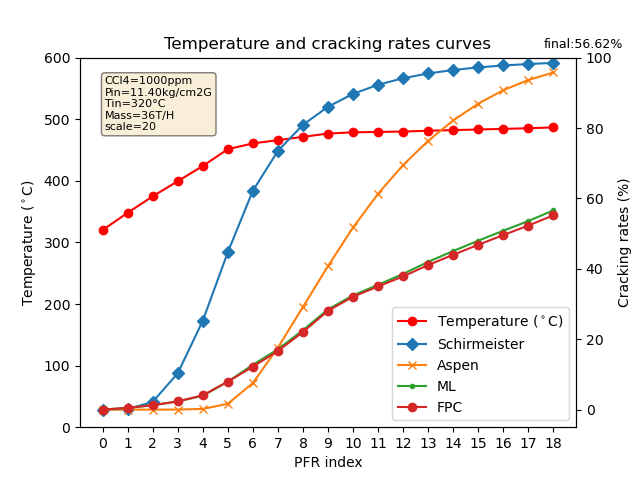
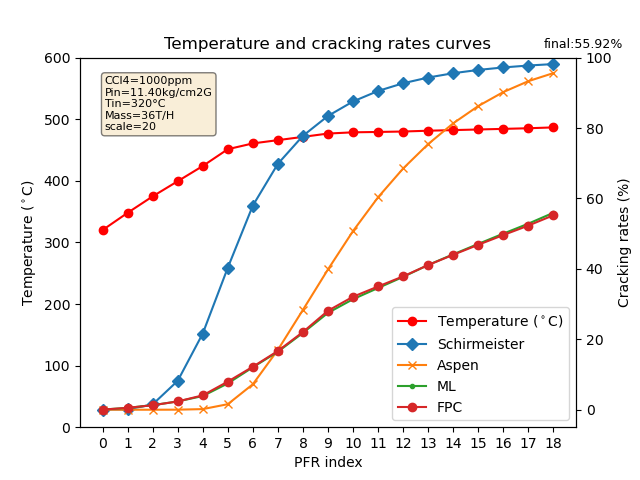
0601-2

diff --git a/FPC/ML/ML_model_V10.py b/FPC/ML/ML_model_V10.py
@@ -1131,7 +1131,7 @@ if __name__ == '__main__':
             # T_list = [350, 380, 396, 413, 428, 436, 444, 453, 459,
             #   463, 465, 467, 469, 470, 471, 472, 473, 474, 475]
             # T_list = [350, 374.7, 399.3, 424, 449.3, 460.7, 466, 471.3, 476.7, 478.7,
-            #           479.3, 480, 481.3, 482.3, 483.3, 484.3, 485.3, 486, 486.7]
+                    #   479.3, 480, 481.3, 482.3, 483.3, 484.3, 485.3, 486, 486.7]
             # T_list = [320, 350, 375, 399, 424, 440, 445, 450, 452,
             #           456, 460, 462, 464, 467, 470, 474, 475, 476, 477]
             T_list = [320, 348, 374.7, 399.3, 424, 451.3, 460.7, 466, 471.3,476.7, 478.7, 479.3, 480, 481.3, 482.3, 483.3, 484.3, 485.3, 486.7]
@@ -1224,6 +1224,7 @@ if __name__ == '__main__':
             # elif n_pfr == 22:
             #     area = 3.14 * ((262) / 1000) ** 2 / 4
             # area = 3.14 * ((7.21 * 2.54)/100) ** 2 / 4
+            # name = '36_11.4_350_orginal'
             name = '36_11.4_320_orginal'
             # name = 'texas48'
             # name = '30_350'

diff --git a/FPC/ML/createTrainingData.py b/FPC/ML/createTrainingData.py
@@ -68,7 +68,7 @@ def EDC_cracking(
     
     # import the gas model and set the initial conditions
     model = ct.Solution(reaction_mech)
-    model.TPX = T_0, pressure_0, composition_0
+    model.TPY = T_0, pressure_0, composition_0
     dz = length / n_steps
     r_vol = area * dz
     
@@ -115,7 +115,7 @@ def EDC_cracking(
             model.TP = T, None
             r.syncState()
             # Set the state of the reservoir to match that of the previous reactor
-            model.TPX = r.thermo.TPX
+            model.TPY = r.thermo.TPY
             upstream.syncState()
             # integrate the reactor forward in time until steady state is reached
             sim.reinitialize()
